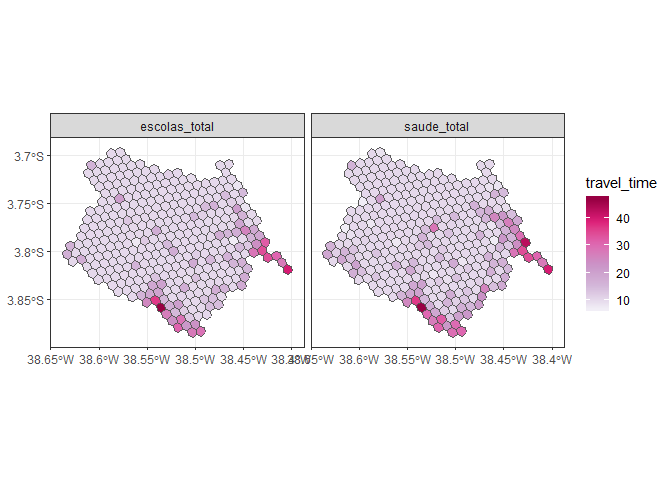
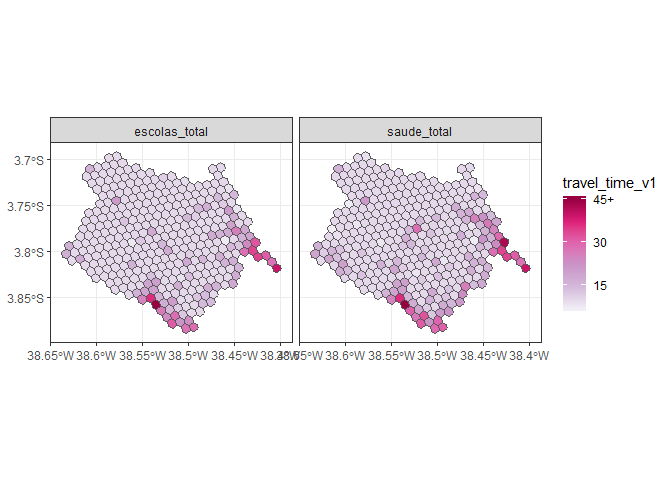
add escalas personalizadas por cidade

diff --git a/05_acessibilidade.md b/05_acessibilidade.md
@@ -67,7 +67,7 @@ acess_ac_for <- map_dfr(c(15, 30, 45, 60), ~ acess_acumu(cidade = "for", tempo =
 #   st_sf()
 
 
-# write_rds(acess_ac_for, "../data/output_access/access_ac_for.rds")
+# write_rds(acess_ac_for, "../data/output_access/acess_ac_for.rds")
 
 
 # adicionar competicao
@@ -132,7 +132,7 @@ acess_ac_bel <- map_dfr(c(15, 30, 45, 60), ~ acess_acumu(cidade = "bel", tempo =
   as_tibble() %>%
   st_sf()
 
-# write_rds(acess_ac_bel, "../data/output_access/access_ac_bel.rds")
+# write_rds(acess_ac_bel, "../data/output_access/acess_ac_bel.rds")
 ```
 
 Visualizar o indicador de acessibilidade para Belo Horizonte:
@@ -171,7 +171,7 @@ acess_ac_rio <- map_dfr(c(15, 30, 45, 60), ~ acess_acumu(cidade = "rio", tempo =
   st_sf()
 
 
-# write_rds(acess_ac_rio, "../data/output_access/access_ac_rio.rds")
+# write_rds(acess_ac_rio, "../data/output_access/acess_ac_rio.rds")
 ```
 
 Visualizar o indicador de acessibilidade para Rio de Janeiro:
@@ -184,6 +184,7 @@ acess_ac_rio %>%
   geom_sf(aes(fill = saude_total))+
   theme_bw()+
   scale_fill_gradientn(colors = RColorBrewer::brewer.pal(6, "PuRd")) +
+  # theme(legend.position = "bottom")+
   facet_wrap(~tempo_viagem) +
 acess_ac_rio %>%
   select(escolas_total, tempo_viagem) %>%
@@ -192,6 +193,7 @@ acess_ac_rio %>%
   geom_sf(aes(fill = escolas_total))+
   theme_bw()+
   scale_fill_gradientn(colors = RColorBrewer::brewer.pal(6, "PuRd"))+
+  # theme(legend.position = "bottom")+
   facet_wrap(~tempo_viagem)+
     plot_layout(ncol = 1)
 ```
@@ -263,6 +265,8 @@ Aplicar para Fortaleza
 
 ``` r
 acess_min_for <- acess_min("for")
+
+# write_rds(acess_min_for, "../data/output_access/acess_min_for.rds")
 ```
 
 Visualizar:
@@ -270,10 +274,13 @@ Visualizar:
 ``` r
 acess_min_for %>%
   filter(!is.na(travel_time)) %>%
+  mutate(travel_time_v1 = ifelse(travel_time > 45, 45, travel_time)) %>%
   ggplot()+
-  geom_sf(aes(fill = travel_time))+
+  geom_sf(aes(fill = travel_time_v1))+
   theme_bw()+
-  scale_fill_gradientn(colors = RColorBrewer::brewer.pal(6, "PuRd")) +
+  scale_fill_gradientn(colors = RColorBrewer::brewer.pal(6, "PuRd"),
+                       breaks = c(0, 15, 30, 45),
+                       labels = c("0", "15", "30", "45+")) +
   facet_wrap(~atividade)
 ```
 
@@ -284,6 +291,8 @@ Aplicar para Belo Horizonte
 
 ``` r
 acess_min_bel <- acess_min("bel")
+
+# write_rds(acess_min_bel, "../data/output_access/acess_min_bel.rds")
 ```
 
 Visualizar:
@@ -291,10 +300,13 @@ Visualizar:
 ``` r
 acess_min_bel %>%
   filter(!is.na(travel_time)) %>%
+  mutate(travel_time_v1 = ifelse(travel_time > 45, 45, travel_time)) %>%
   ggplot()+
-  geom_sf(aes(fill = travel_time))+
+  geom_sf(aes(fill = travel_time_v1))+
   theme_bw()+
-  scale_fill_gradientn(colors = RColorBrewer::brewer.pal(6, "PuRd")) +
+  scale_fill_gradientn(colors = RColorBrewer::brewer.pal(6, "PuRd"),
+                       breaks = c(0, 15, 30, 45),
+                       labels = c("0", "15", "30", "45+")) +
   facet_wrap(~atividade)
 ```
 
@@ -305,6 +317,8 @@ Aplicar para o Rio de Janeiro
 
 ``` r
 acess_min_rio <- acess_min("rio")
+
+# write_rds(acess_min_rio, "../data/output_access/acess_min_rio.rds")
 ```
 
 Visualizar:
@@ -312,10 +326,13 @@ Visualizar:
 ``` r
 acess_min_rio %>%
   filter(!is.na(travel_time)) %>%
+  mutate(travel_time_v1 = ifelse(travel_time > 60, 60, travel_time)) %>%
   ggplot()+
-  geom_sf(aes(fill = travel_time))+
+  geom_sf(aes(fill = travel_time_v1))+
   theme_bw()+
-  scale_fill_gradientn(colors = RColorBrewer::brewer.pal(6, "PuRd")) +
+  scale_fill_gradientn(colors = RColorBrewer::brewer.pal(6, "PuRd"),
+                       breaks = c(0, 15, 30, 45, 60),
+                       labels = c("0", "15", "30", "45","60+")) +
   facet_wrap(~atividade, ncol = 1)
 ```
 
